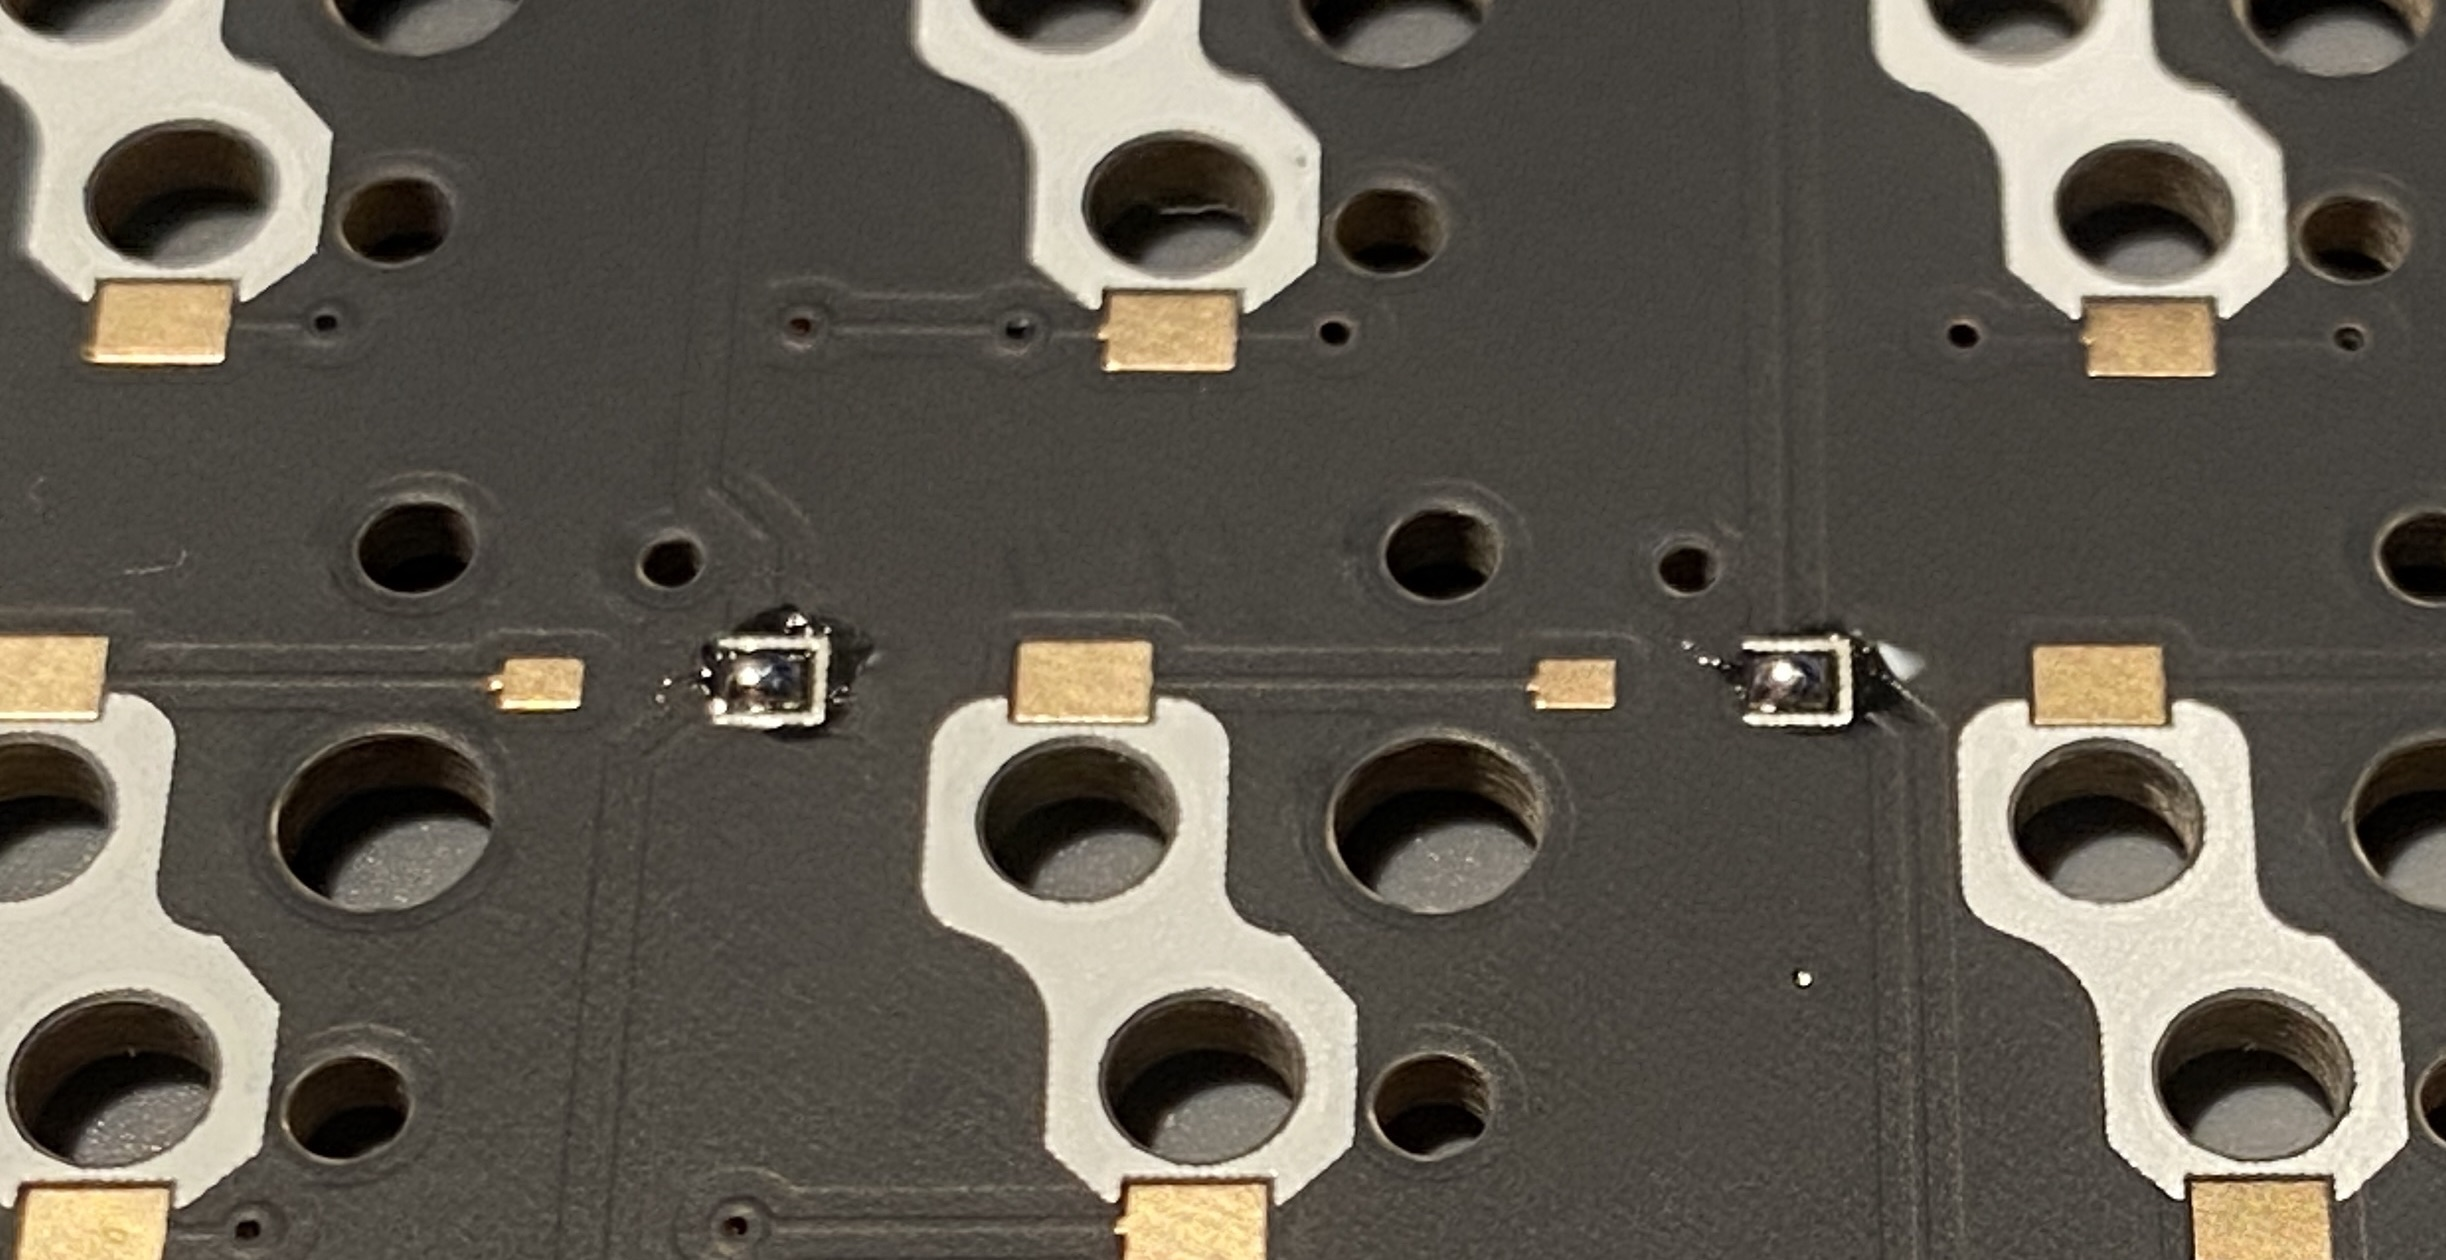
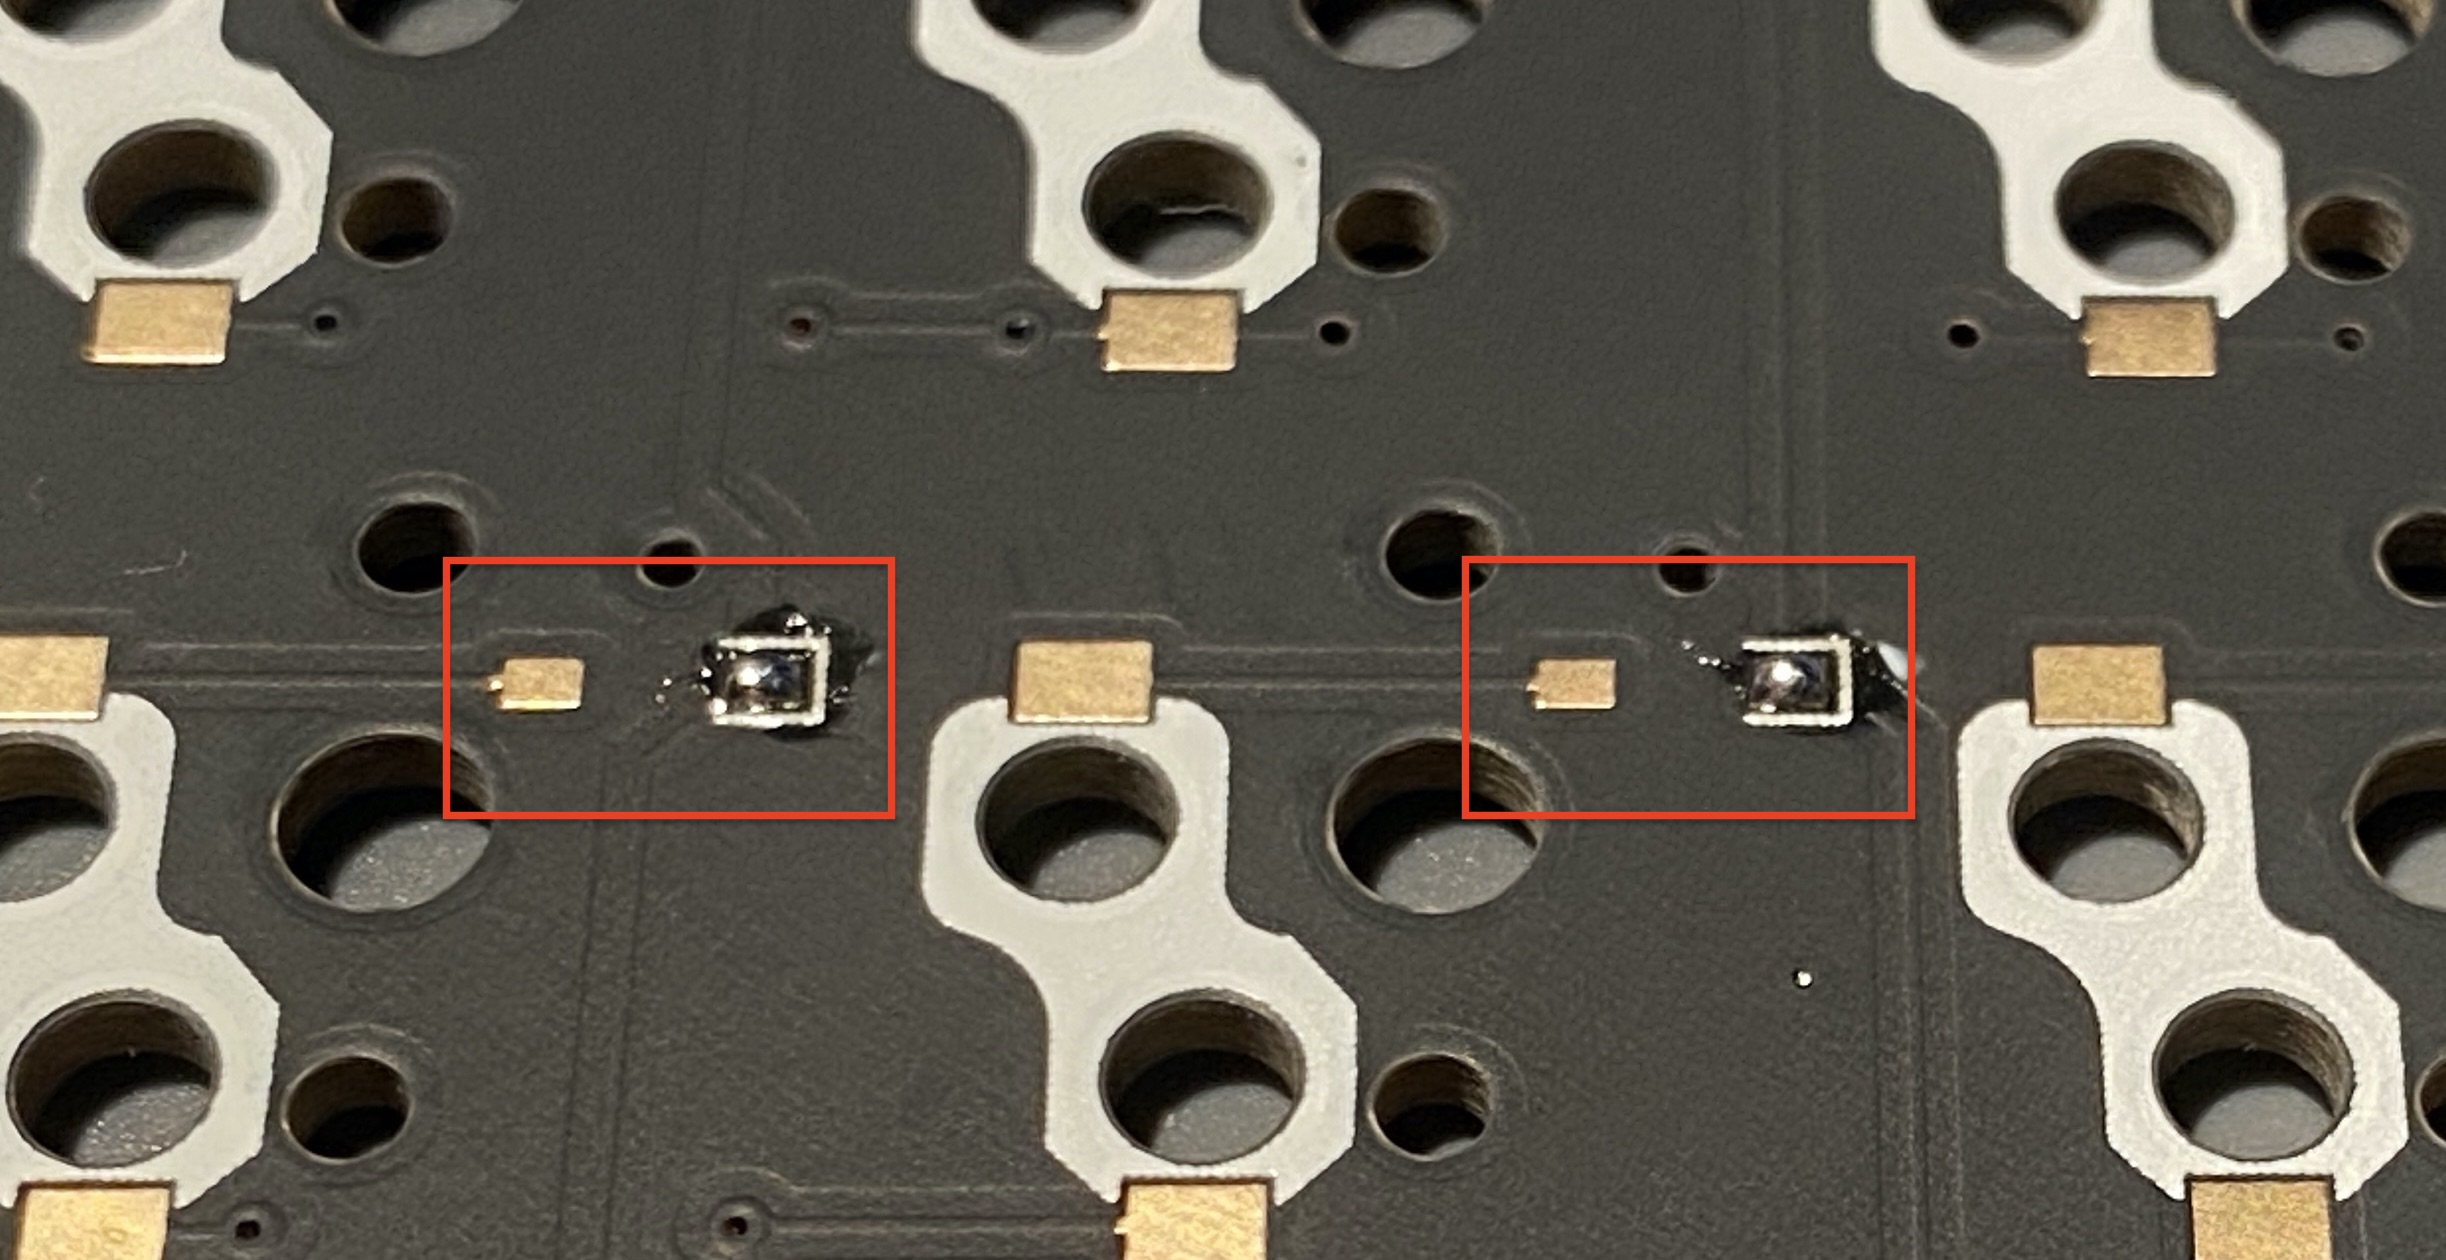
rebuilding site 2020年 7月12日 日曜日 07時45分19秒 JST

Changed region(s): [[0.5904, 0.4333, 0.8078, 0.65], [0.1554, 0.4333, 0.3729, 0.65]]

diff --git a/bat43/buildguide/4_diode/index.html b/bat43/buildguide/4_diode/index.html
@@ -530,7 +530,7 @@ if (!doNotTrack) {
 <ul>
 <li>基板の裏面に実装していきます</li>
 <li>全部で48箇所あります</li>
-<li>下部の配置は少し変則的になっているのでお気をつけください
+<li>下の方は配置が少し変則的になっているのでお気をつけください
 <img src="pcb-back-pre-diode.jpeg" alt=""></li>
 </ul>
 <h2 id="取り付け">取り付け</h2>
@@ -574,7 +574,7 @@ if (!doNotTrack) {
 </li>
 <li>
 <p>予備ハンダを溶かして、ダイオードの片方の足をハンダ付けする<br>
-ダイオードが浮いてしまった場合は指やピンセットで押さえつけながら、ハンダを温め直してください<br>
+ダイオードが浮いてしまった場合は指やピンセットで押さえつけながら、ハンダを温め直してください（火傷に注意！）<br>
 <img src="diode-one.jpeg" style="width:500px"></p>
 </li>
 <li>
@@ -592,7 +592,7 @@ if (!doNotTrack) {
 <p>48個付けたら完了です！</p>
 </li>
 <li>
-<p><span style="color: red; ">最後に2つ確認をしてください</span></p>
+<p><span style="color: red; ">次のステップに進む前に2つ確認をしてください</span></p>
 <ul>
 <li><span style="color: red; ">ダイオードの向きが合っていること</span></li>
 <li><span style="color: red; ">ハンダ付けし忘れている箇所がないか</span></li>

diff --git a/bat43/buildguide/firmware/index.html b/bat43/buildguide/firmware/index.html
@@ -528,8 +528,8 @@ if (!doNotTrack) {
 <ul>
 <li>下記の記事などを参考に書き込み環境を構築してください。
 <ul>
-<li><a href="https://docs.qmk.fm/#/ja/newbs_getting_started">QMK Farmware Getting Started</a></li>
-<li><a href="https://qiita.com/cactusman/items/ac41993d1682c6d8a12e">プログラマーではない人向けのQMK Firmware入門 - Qiita</a></li>
+<li><a href="https://docs.qmk.fm/#/ja/newbs">入門 - QMK Firmware</a></li>
+<li><a href="https://docs.qmk.fm/#/ja/newbs_building_firmware_configurator">QMK Configurator</a></li>
 </ul>
 </li>
 </ul>
@@ -560,7 +560,7 @@ Detecting USB port, reset your controller now....
 </code></pre><ul>
 <li>画像のGNDとRSTと書かれている下の丸同士をピンセットなどでショートさせてください。
 （ProMicroをキーボードに組み込み済みの場合は、リセットスイッチを2回押してください。）
-<img src="images/20190402072348.jpg" alt=""></li>
+<img src="/claw44/buildguide/firmware/images/20190402072348.jpg" alt=""></li>
 <li>下記のように表示されれば書き込み成功です</li>
 </ul>
 <pre><code>Device /dev/tty.usbmodem146201 has appeared; assuming it is the controller.

diff --git a/bat43/buildguide/1_check/index.html b/bat43/buildguide/1_check/index.html
@@ -520,8 +520,10 @@ if (!doNotTrack) {
 	<h1>1. 同梱品の確認</h1>
         
 	
-	<p>※組み立てる前に必ず部品が揃っているか確認をお願いします。<br>
-※不足品などありましたらBOOTHからご連絡ください。</p>
+	<ul>
+<li>組み立てる前に必ず部品が揃っているか確認をお願いします。</li>
+<li>不足品などありましたらBOOTHからご連絡ください。</li>
+</ul>
 <h2 id="基本セット">基本セット</h2>
 <ol>
 <li>
